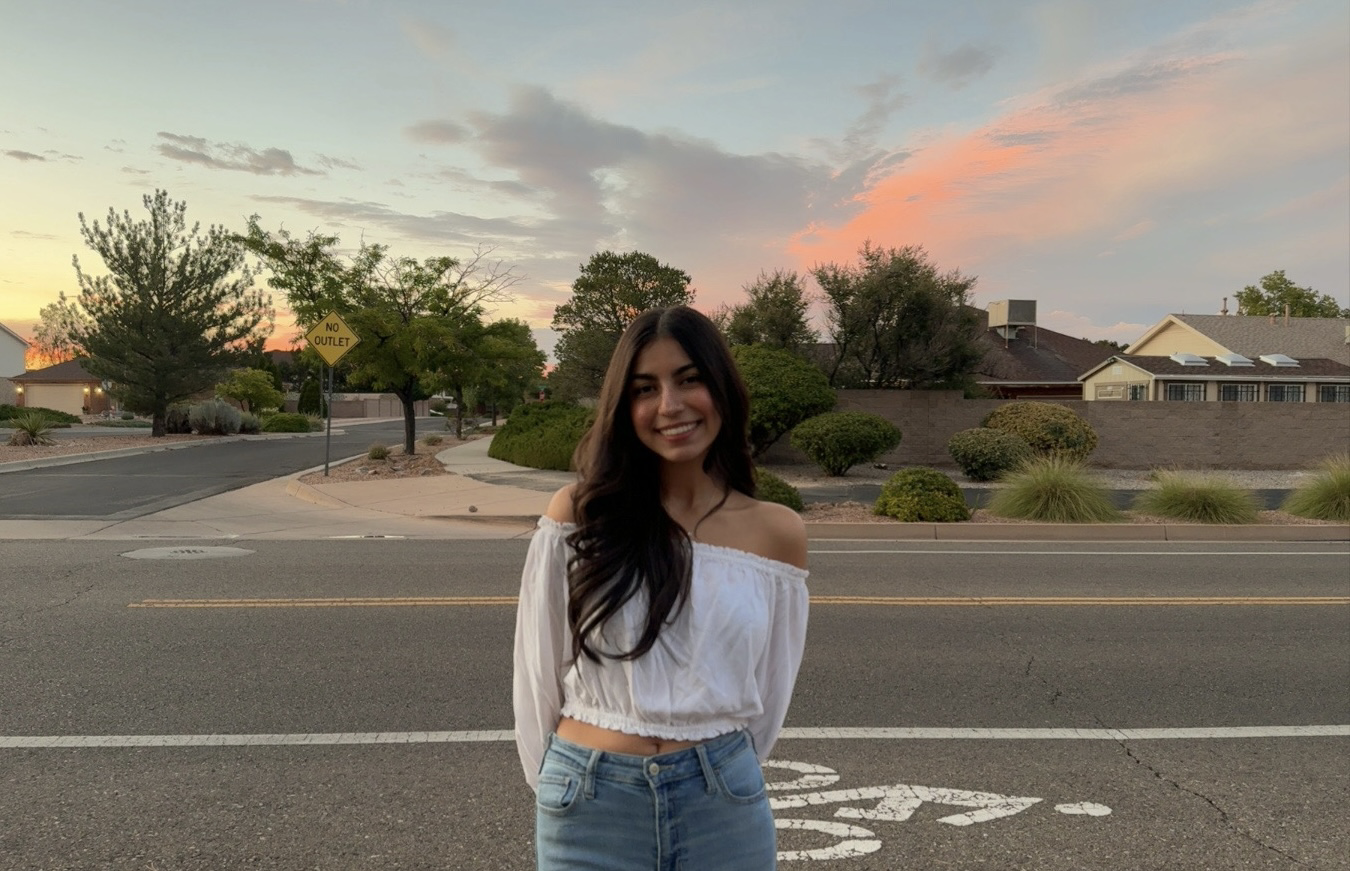
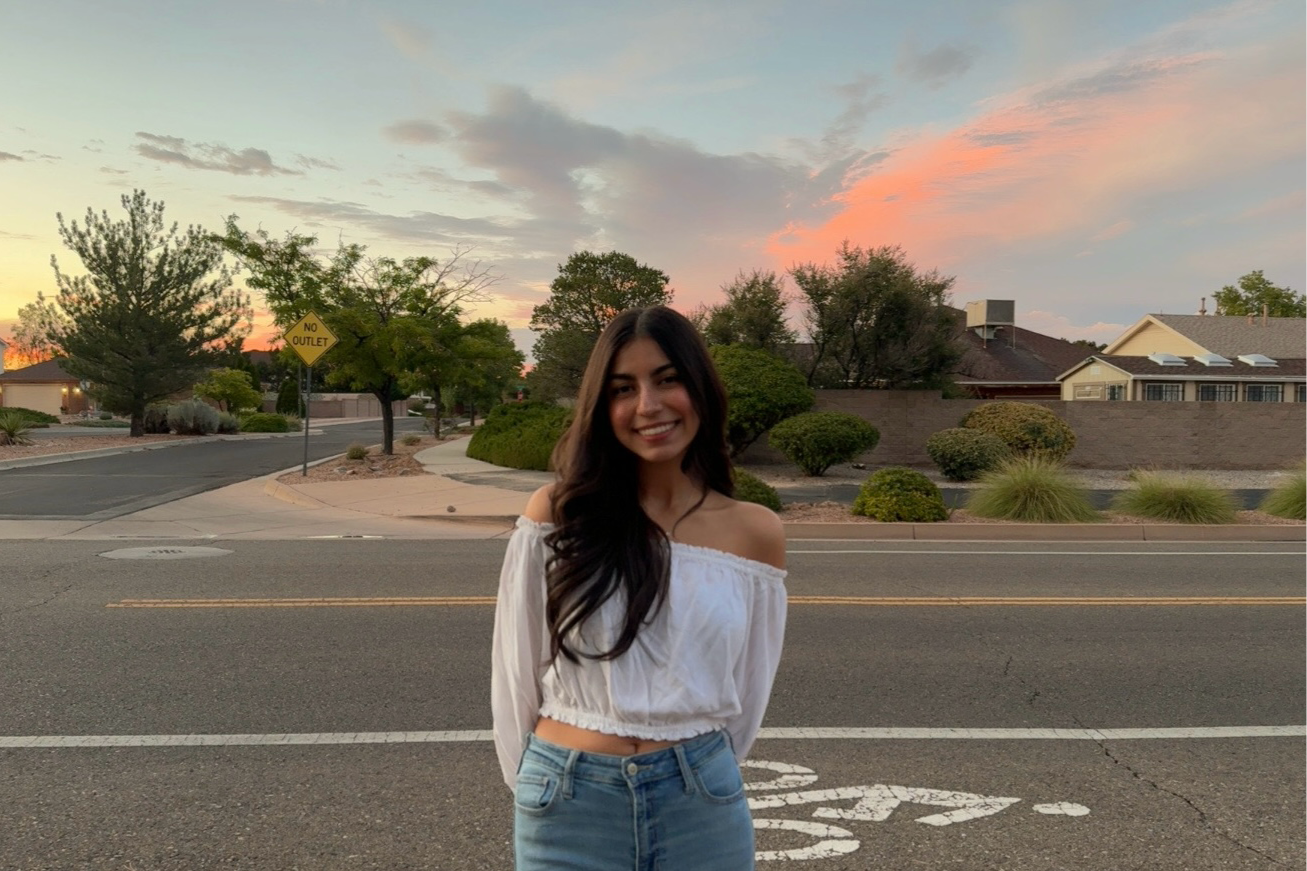
resized image and add hosting

diff --git a/index.html b/index.html
@@ -356,7 +356,7 @@
 </section>
 
 <footer>
-  <div class="mt-14 mb-10 text-center text-[#8EA8C3]">
+  <div class="mt-20 mb-20 text-center text-[#8EA8C3]">
     Designed by Ashley Medrano
   </div>
 </footer>

diff --git a/public_html/documentation/hosting-instructions.md b/public_html/documentation/hosting-instructions.md
@@ -1,0 +1,226 @@
+# PWP Hosting Setup Codealong
+## Create a new project and droplet on Digital Ocean
+- Create project - New Project in sidebar
+    - projects are a way of organizing droplets
+    - names and descriptions should be relevant for you, e.g. gkephart-bootcamp
+- Create -> Droplet
+    - OS -> Ubuntu -> version 24.04 LTS
+    - Basic plan
+    - $6 per month
+    - San Francisco 6
+    - IPv6 and Monitoring
+    - New SSH Key (copy/paste your ssh key from your computer)
+        - Mac/Linux key location: ~/.ssh/id_ed25519.pub
+        - Windows key location: PuTTYgen
+    - Choose hostname (internal to docker, e.g. username-pwp)
+    - backups are strongly encouraged
+    - Wait for process to finish
+    - Copy the IP address for later
+## Point domain to Digital Ocean and set up the DNS
+- the instructions for this depend on where you bought your domain. I recommend using Digital Ocean's documentation for configuring name servers
+    - [documentation](https://www.digitalocean.com/community/tutorials/how-to-point-to-digitalocean-nameservers-from-common-domain-registrars)
+## Set up DNS records on Digital Ocean
+- Go to Create -> Domains/DNS
+- Add domain
+    - Enter your domain name
+    - Click Add Domain
+- Add A record for bare domain
+    - Enter @ for hostname
+    - Enter your droplet's IP address
+    - Click Create Record
+- Add A record for www subdomain
+    - Enter www for hostname
+    - Enter your droplet's IP address
+    - Click Create Record
+## Disable root ssh access
+- we do this for security
+    - root ssh access means that if login is compromised, entire server is compromised
+    - better way: ssh in as a different user, then use sudo to run commands as root
+    - means that if attacker gets our key, they don't have full access unless they ALSO get our password
+- ssh into the server
+    - For Mac and Linux: `ssh root@ashleyymedrano.com`
+    - For Windows: Set up a new PuTTY session
+        - **Session**
+            - Hostname: droplet ipv4 address
+            - name `pwp`
+            - Click `Save`
+        - **Connection → Data**
+            - Auto-login Username: root
+        - **Connection → SSH → Auth**
+            - Private key file for authentication: *Browse to the ssh-key.ppk file in your bootcamp directory*
+        - **Session**
+            - Click pwp
+            - Click Save
+- create user
+    - `useradd -m -s /bin/bash -g users -G sudo ashleyymedrano`
+    - replace ashleyymedrano with your own
+- create password
+    - `passwd ashleyymedrano`
+- Move .ssh key file
+    - `cp -r .ssh /home/ashleyymedrano`
+- change ownership of the .ssh directory
+    - `cd /home/ashleyymedrano`
+    - `chown -R ashleyymedrano:users .ssh/`
+
+
+- Test Changes
+    - `exit`
+    - Mac/Linux: `ssh ashleyymedrano@ashleyymedrano.com`
+    - Windows:
+        - **Session**
+            - Click pwp
+            - Click Load
+        - **Connection → Data**
+            - Auto-login Username: change from root to username
+        - **Session**
+            - Click pwp
+            - Click Save
+-  **if successful**, delete the root user
+    - Don't do this while logged in as root!
+    - `sudo rm -rf /root/.ssh`
+## Update Droplet
+- update the apt repository list
+    - `sudo apt update`
+- upgrade packages
+    - `sudo apt dist-upgrade`
+    - You amy be asked to overwrite some files. Type `n` and press enter to accept the defaults.
+- reboot
+    - `sudo reboot`
+- ssh back in
+- `ssh ashleyymedrano@ashleyymedrano.com`
+## Install nginx and configure firewall using UFW
+- install nginx
+    - `sudo apt install nginx`
+- add nginx to firewall
+    - `sudo ufw allow 'Nginx HTTP'`
+    - `sudo ufw allow 'Nginx HTTPS'`
+    - `sudo ufw allow "OpenSSH"`
+    - `sudo ufw enable`
+    - `sudo ufw status`
+- check nginx is running and active using systemctl
+    - `systemctl status nginx`
+    - you can also check to see if nginx is running by visiting the ip address/domain in your browser.
+## Add nginx block for your domain
+- create a directory for your deployment
+    - `sudo mkdir /var/www/ashleyymedrano.com/html`
+- fix permissions
+    - `sudo chown -R $USER:users /var/www/ashleyymedrano.com/html`
+    - create a deployment in Webstorm and upload it to the server
+
+
+## create a new nginx block
+- Create a new nginx block for your domain in the sites-available directory
+- `sudo vim /etc/nginx/sites-available/ashleyymedrano.com`
+- add the following file
+    - - replace your domain with your domain.com
+-
+```
+server {
+    listen 80;
+    listen [::]:80;
+
+    root /var/www/ashleyymedrano.com/html;
+    index index.html index.htm index.nginx-debian.html;
+
+    server_name ashleyymedrano.com www.ashleyymedrano.com;
+
+    location / {
+            try_files $uri $uri/ =404;
+    }
+}   
+```
+
+- create a symlink to the sites-enabled directory
+    - `sudo ln -s /etc/nginx/sites-available/ashleyymedrano.com /etc/nginx/sites-enabled/`
+    - Nginx uses symlinks to enable and disable sites in the sites-enabled directory.
+    - This allows for developers to have multiple sites available, but only enable the ones you want to use.
+- increase the server names hash bucket size
+    - `sudo vim /etc/nginx/nginx.conf`
+    - comment out following line in the http block
+        - `server_names_hash_bucket_size 64;`
+- Test nginx configuration
+    - `sudo nginx -t`
+    - if you get an error, check your nginx config file for typos
+- restart nginx to apply changes
+    - `sudo systemctl restart nginx`
+    - visit your domain in your browser
+## Install Certbot
+- Certbot is a tool that allows us to get a free SSL certificate from Let's Encrypt
+- Make sure an older version of certbot is not installed
+    - `sudo apt remove certbot`
+- install certbot using snap
+    - `sudo snap install --classic certbot`
+    - Make sure the certbot command is available
+        - `sudo ln -s /snap/bin/certbot /usr/bin/certbot`
+- run certbot to get a certificate
+    - `sudo certbot --nginx`
+    - enter your email address
+    - agree to the terms of service
+    - select the domain you want to get a certificate for
+    - select option 2 to redirect all traffic to https
+    - test your site in the browser
+- Test auto renewal
+- `sudo certbot renew --dry-run`
+## Setup Deployment Pipeline using Github Actions
+- Create a new ssh key on your server in the .ssh directory
+    - `ssh-keygen -t ed25519 -C  "github Deploy Key" -f /home/ashleyymedrano/.ssh/github_deploy_key`
+    - Don't enter a passphrase
+        - hit enter twice
+- Copy the public key into your authorized keys file
+    - `cat /home/ashleyymedrano/.ssh/github_deploy_key.pub >> /home/ashleyymedrano/.ssh/authorized_keys`
+    - this command appends the public key to the authorized keys file using the cat command and the >> operator
+    - `>>` appends the output of the left side of the command into the file on the right side of the command
+- Copy the private key to your clipboard **(this is a very dangerous operation do not share this key with anyone )**
+    - If the key is leaked delete it immediately and create a new one.
+    - `cat /home/ashleyymedrano/.ssh/github_deploy_key`
+- Add the private key to your repository as a github secret(Github Secrets are encrypted environment variables that you can use in your github actions)
+    - Go to your repository on github
+    - Click on settings
+    - Click on secrets -> actions
+    - Click on new repository secret
+    - Name the secret `PRIVATE_KEY`
+    - Paste the private key into the value field
+    - Click add secret
+- Create a new github action in your repository
+    - Create a new directory in your repository called `.github`
+    - Create a new directory in the `.github` directory called `workflows`
+    - Create a new file in the `workflows` directory called `deploy.yml`
+    - Add the following code to the `deploy.yml` file
+```yaml
+name: Deploy via SSH
+'on':
+  - push
+  - repository_dispatch
+permissions:
+  actions: read
+  contents: read
+jobs:
+  deploy:
+    runs-on: ubuntu-latest
+
+    steps:
+      - uses: actions/checkout@v4
+      # Make sure the @v0.9.0 matches the current version of the action
+      - uses: webfactory/ssh-agent@v0.9.0
+        with:
+          ssh-private-key: ${{ secrets.PRIVATE_KEY }}
+
+      - name: Install dependencies
+        run: npm install
+
+      - name: Build Vite site
+        run: npm run build
+
+      - name: Deploy to server
+        run: |
+         ssh-keyscan -H ashleyymedrano.com >> ~/.ssh/known_hosts 
+         scp -r ./dist/* gkephart@ashleyymedrano.com:/var/www/ashleyymedrano.com/html
+```
+- Push your changes to github to trigger the action and test deploying your site
+
+
+
+
+## Nginx Documentation
+- [nginx documentation used](https://www.digitalocean.com/community/tutorials/how-to-install-nginx-on-ubuntu-22-04#step-5-setting-up-server-blocks-recommended)
+- [Certbot documentation used](https://certbot.eff.org/instructions?ws=nginx&os=ubuntufocal)
